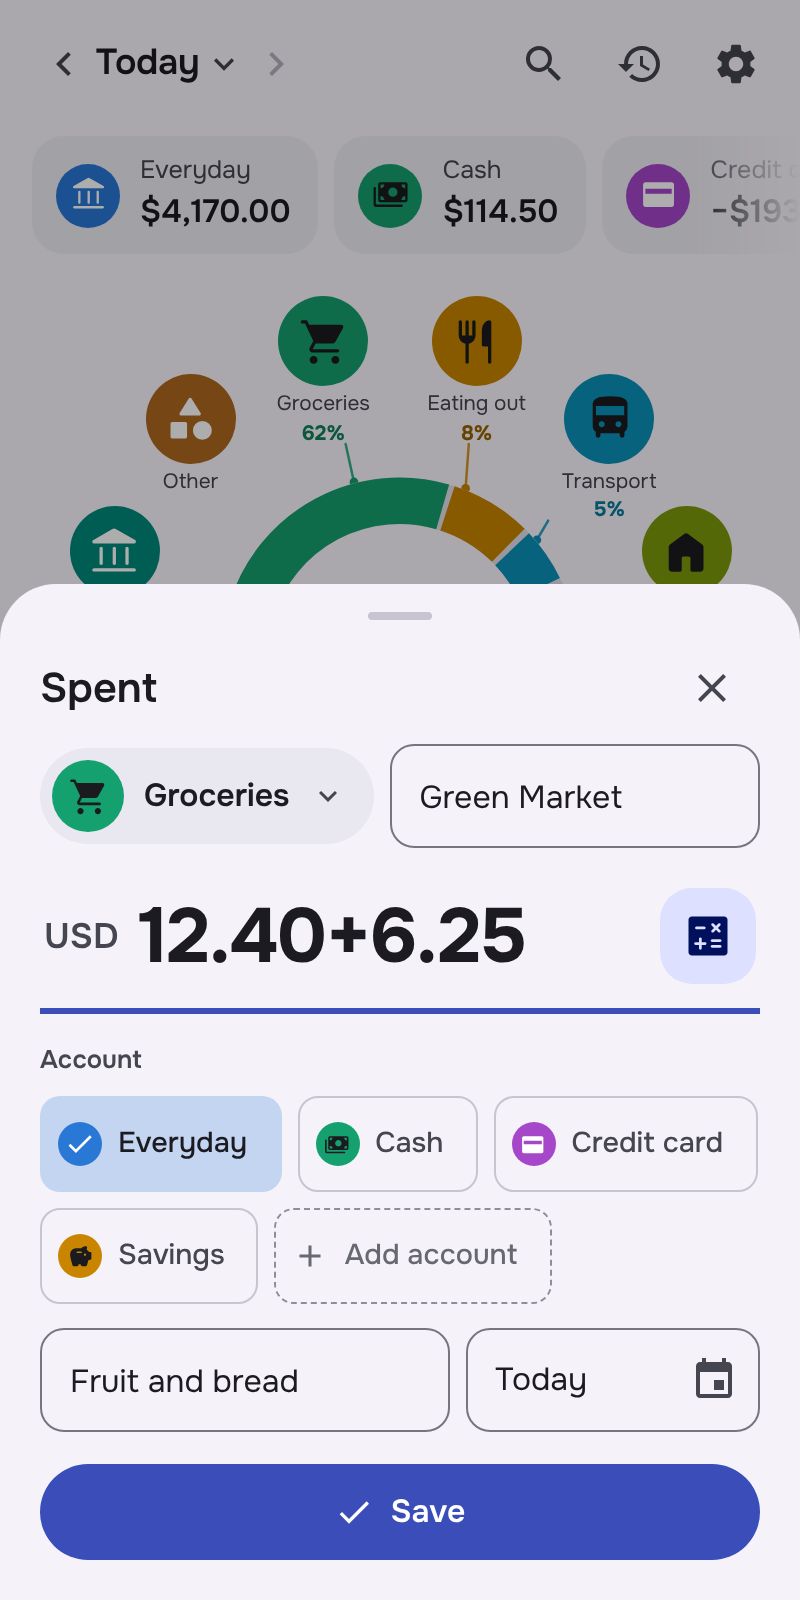
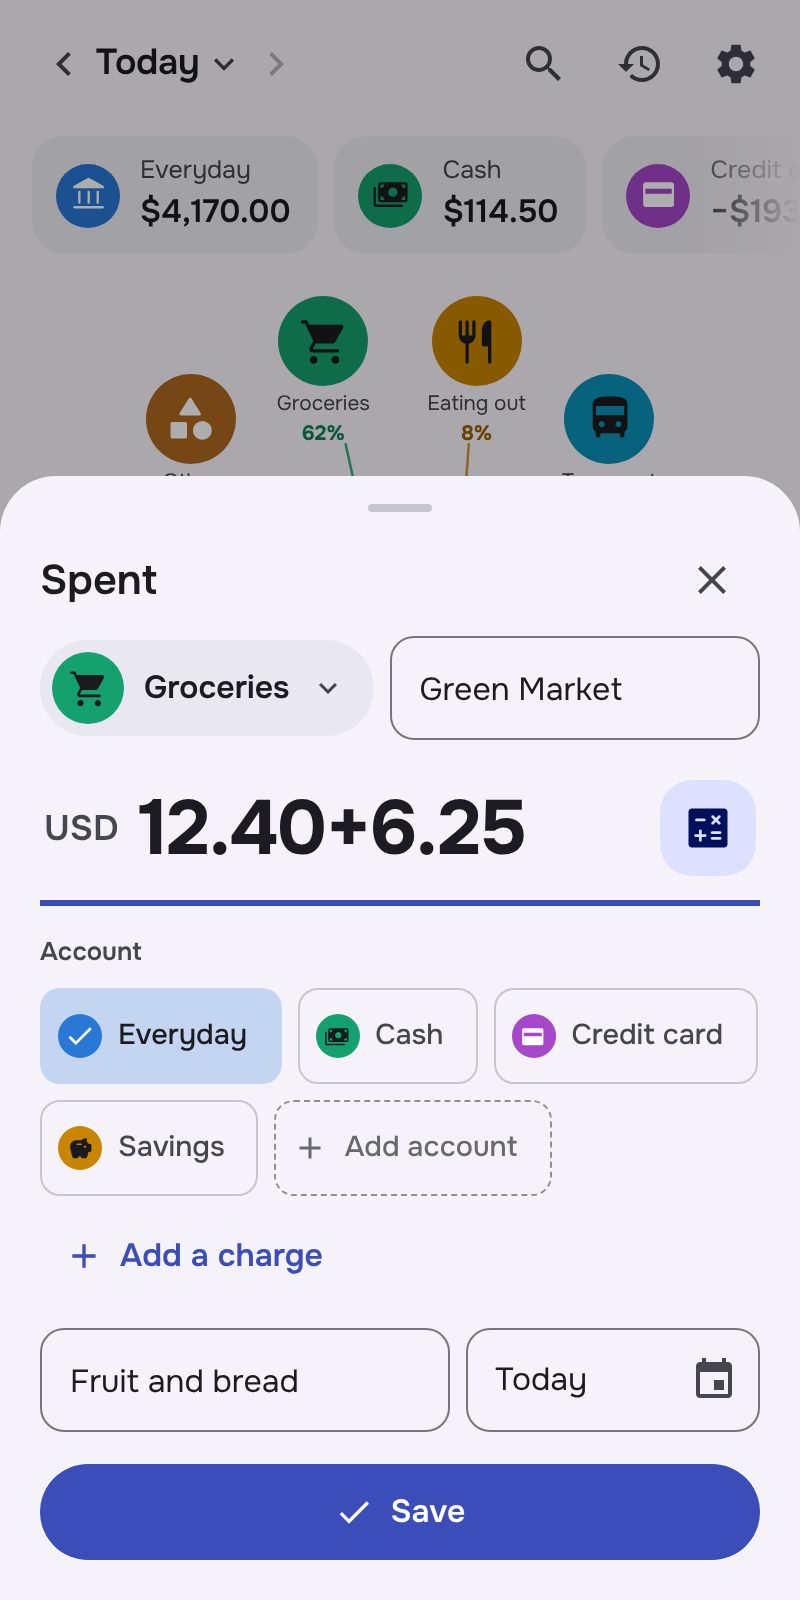
Store screenshots for 1.5.0; release plan item 12 ticked

diff --git a/docs/plans/2026-11-01-release-1.5.0.md b/docs/plans/2026-11-01-release-1.5.0.md
@@ -138,8 +138,10 @@ Items 9 (password-protected backups) and 10 (app lock) moved to 1.6.0: see docs/
 
 ## Release
 
-- [ ] 12. Full checks green: `npm run lint`, full `npm test`, `./gradlew assembleDebug`; `npm run media` if the
+- [x] 12. Full checks green: `npm run lint`, full `npm test`, `./gradlew assembleDebug`; `npm run media` if the
       interface changed visibly (store screenshots)
+      Done 2026-11-13: lint and the 45 suites green; media remade (add, History, loan, feature graphic, social
+      preview); the APK builds in CI.
 - [x] Release only after the charges item: History's headings already count fees inside "spent" (the design round),
       while Home, Summary, the Spent filter and the docs (README, CONTRIBUTING, docs/design.md, the CLAUDE.md scope line)
       still say fees never count; charges brings them into line (done: the docs, store listings and CLAUDE.md say the one rule)
